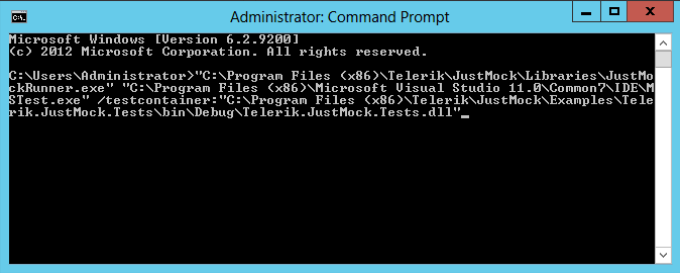
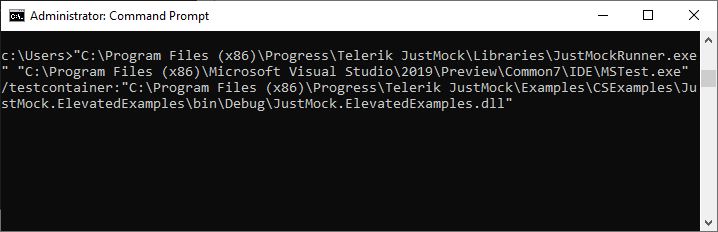
Updated information for running JustMock tests in cmd

diff --git a/integration/windows-batch-command.md b/integration/windows-batch-command.md
@@ -1,7 +1,7 @@
 ---
 title: Windows Batch Command
 page_title: Windows Batch Command | JustMock Documentation
-description: Windows Batch Command integration with Telerik JustMock
+description: In this topic, you will learn how to execute Telerik® JustMock test DLLs with cmd.exe.
 slug: justmock/integration/windows-batch-command
 tags: windows,batch,command
 published: True
@@ -11,35 +11,36 @@ previous_url: /scenarios/running-justmock-profiler-outside-visual-studio, /scena
 
 # Windows Batch Command
 
-Another way to execute test DLLs is via the __Command Prompt(cmd.exe)__.
+Another way to execute test DLLs is via the __Command Prompt(cmd.exe)__. This topic demonstrates how to execute __Telerik® JustMock__ test DLLs with __cmd.exe__.
 
-This topic demonstrates how to execute __Telerik® JustMock__ test DLLs with __cmd.exe__.
-
-##  How to Run Profiler Enabled JustMock Tests in Command Prompt
+##  How to Run Profiler-Enabled JustMock Tests in Command Prompt
 
 The procedure of executing test DLLs in __Command Prompt__ is almost identical regardless of the different unit testing frameworks that you may use.
 
-Your first step will be setting the __JustMock environment variables__, for which there are two possible approaches. 
+To prepare your environment, you should set the __JustMock environment variables__. That can be done using one of the following approaches:
 
-* __We recommend__ using __JustMock Runner__. It will automatically setup an appropriate environment for our product. 
+* With **JustMock Runner**
 
-	__JustMockRunner.exe__ can be found in the JustMock installation directory under the Libraries folder (by default C:\Program Files (x86)\Progress\Telerik JustMock\Libraries). 
+    __We recommend__ using __JustMock Runner__. It will automatically setup an appropriate environment for the product so you don't need to do any additional settings. 
 
-	 Below you will find an example batch file, that will use __MSTest__ to run all the tests in Telerik.JustMock.Test.DLL (found in the Telerik.JustMock.CSExamples.VS2010.sln inside Telerik JustMock root folder). 
+	__JustMockRunner.exe__ can be found in the JustMock installation directory under the Libraries folder (by default *C:\Program Files (x86)\Progress\Telerik JustMock\Libraries*). 
+
+	 Below you will find an example batch file, that will use __MSTest__ to run all the tests in JustMock.ElevatedExamples.dll (found in the *Examples\CSExamples* folder inside Telerik JustMock root folder). 
 
 	![Windows Batch Command 1](images/WindowsBatchCommand1.png)
 
- 	Execution command: 
+ 	Execution command for VS 2019: 
 
-	`"C:\Program Files (x86)\Telerik\JustMock\Libraries\JustMockRunner.exe" "C:\Program Files (x86)\Microsoft Visual Studio 11.0\Common7\IDE\MSTest.exe" /testcontainer:"C:\Program Files (x86)\Telerik\JustMock\Examples\Telerik.JustMock.Tests\bin\Debug\Telerik.JustMock.Tests.dll"`
+    `"C:\Program Files (x86)\Progress\Telerik JustMock\Libraries\JustMockRunner.exe" "C:\Program Files (x86)\Microsoft Visual Studio\2019\Preview\Common7\IDE\MSTest.exe" /testcontainer:"C:\Program Files (x86)\Progress\Telerik JustMock\Examples\CSExamples\JustMock.ElevatedExamples\bin\Debug\JustMock.ElevatedExamples.dll"`
 
 
+* Manually
 
-* If for any reason using __JustMock Runner__ does not apply to your case, it is possible to set the __JustMock environment variables__ manually before running the tests:
+    If for any reason using __JustMock Runner__ does not apply to your case, it is possible to set the __JustMock environment variables__ manually before running the tests:
  
 	![Windows Batch Command 2](images/WindowsBatchCommand2.png)
 
-	Execution command: 
+	Execution command for VS 2019: 
 
 	`SET JUSTMOCK_INSTANCE=1`
 
@@ -47,7 +48,7 @@ Your first step will be setting the __JustMock environment variables__, for whic
 
 	`SET COR_PROFILER={B7ABE522-A68F-44F2-925B-81E7488E9EC0}`
 
-	`"C:\Program Files (x86)\Microsoft Visual Studio 11.0\Common7\IDE\MSTest.exe" /testcontainer:"C:\Program Files (x86)\Telerik\JustMock\Examples\Telerik.JustMock.Tests\bin\Debug\Telerik.JustMock.Tests.dll"`
+	`"C:\Program Files (x86)\Progress\Telerik JustMock\Libraries\JustMockRunner.exe" "C:\Program Files (x86)\Microsoft Visual Studio\2019\Preview\Common7\IDE\MSTest.exe" /testcontainer:"C:\Program Files (x86)\Progress\Telerik JustMock\Examples\CSExamples\JustMock.ElevatedExamples\bin\Debug\JustMock.ElevatedExamples.dll"`
 
 As shown above, once the environment variables are set, you will be able to run elevated JustMock tests through the __Command Prompt__, simply by following the standard steps for the chosen unit testing framework. 
            	
